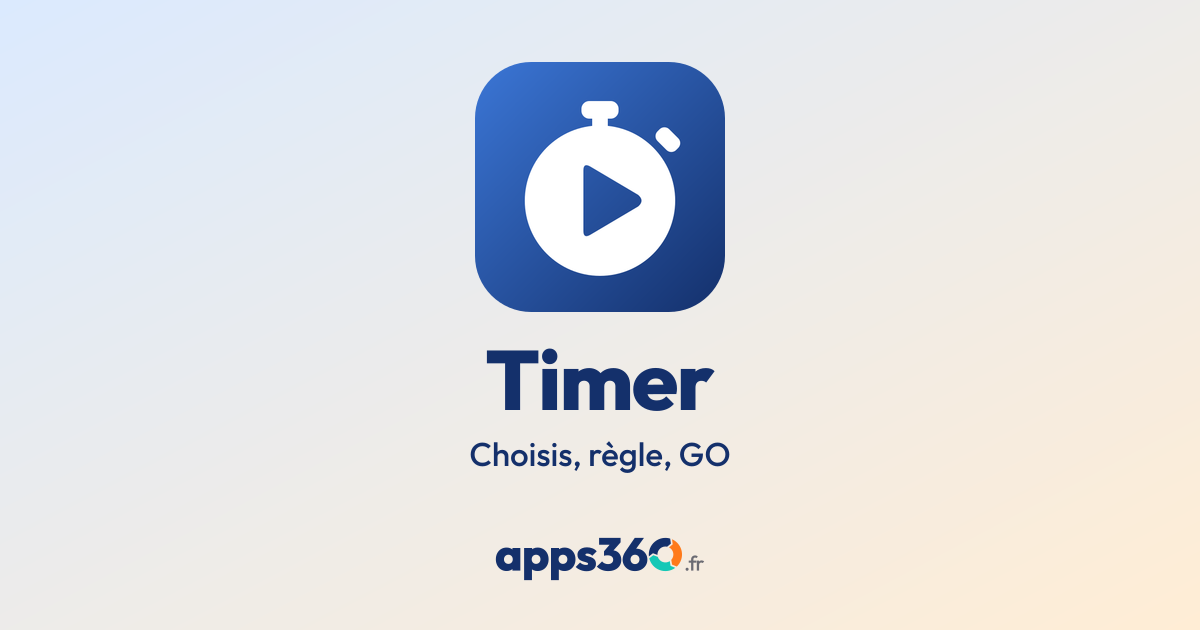
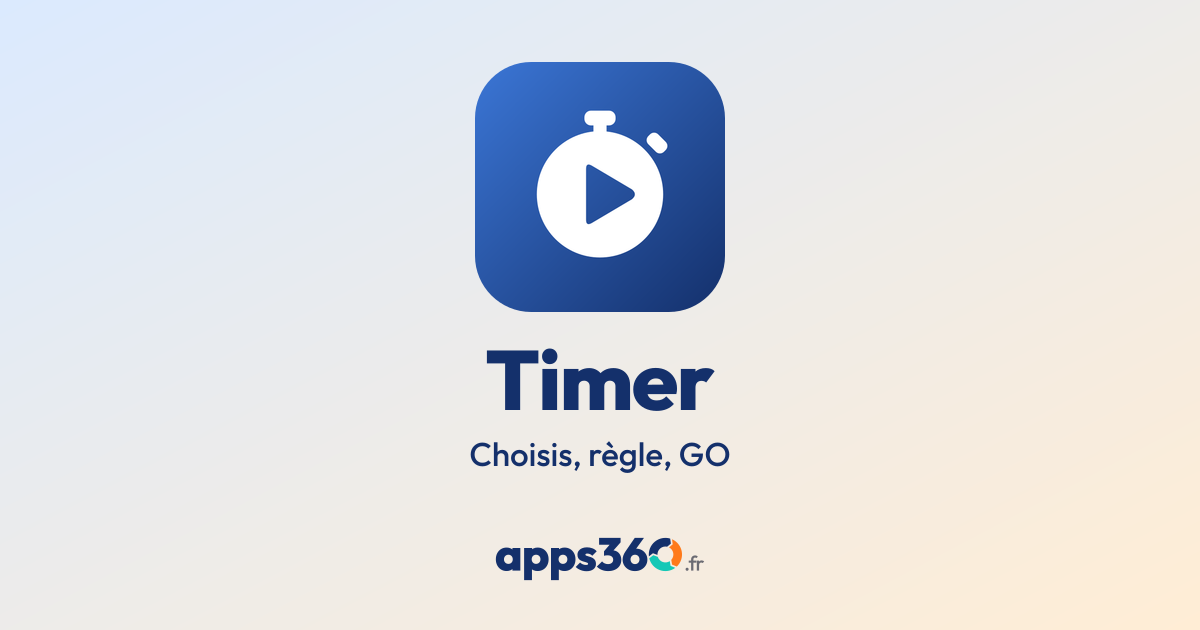
Timer : icône dézoomée (plus de bleu autour du chrono), PNG et image de partage régénérés, version 2

Changed region(s): [[0.4317, 0.1508, 0.5858, 0.4524]]

diff --git a/app/timer/layout.jsx b/app/timer/layout.jsx
@@ -3,7 +3,7 @@ import { shareMeta } from "@/lib/appIcons";
 
 export const metadata = {
   ...shareMeta("timer", "Timer", "Tabata, HIIT, EMOM, minuteur, chrono : choisis, règle, GO."),
-  icons: { icon: "/icon-timer.svg", apple: "/icons/timer-180.png" },
+  icons: { icon: "/icon-timer.svg?v=2", apple: "/icons/timer-180.png?v=2" },
   manifest: "/manifest-timer.json",
 };
 
